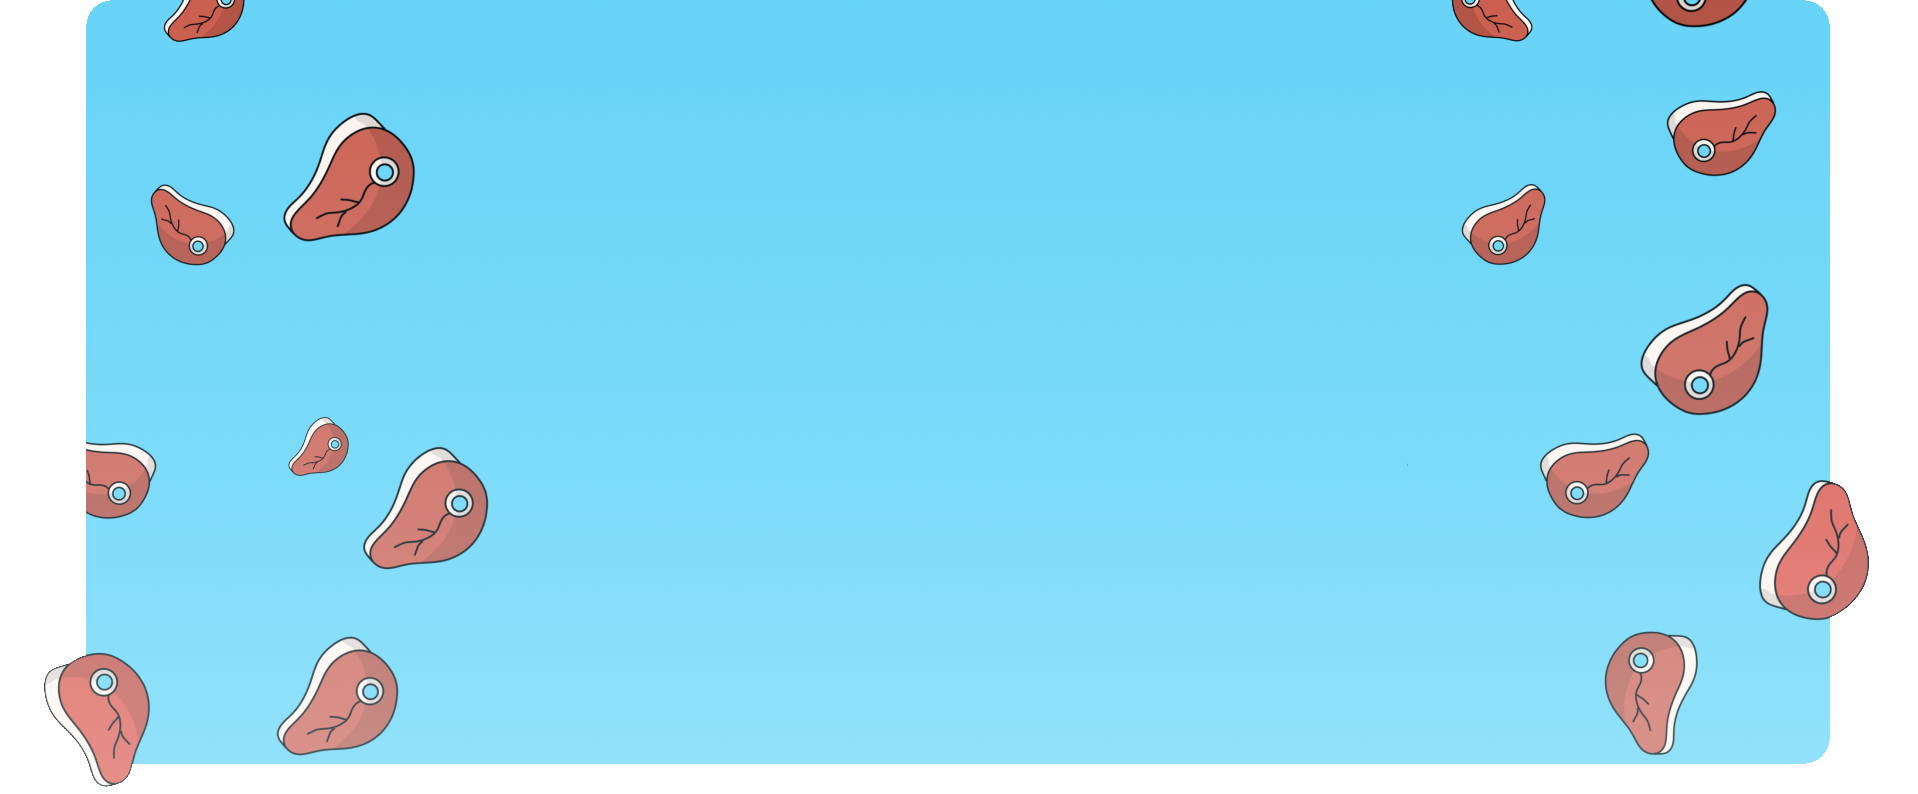
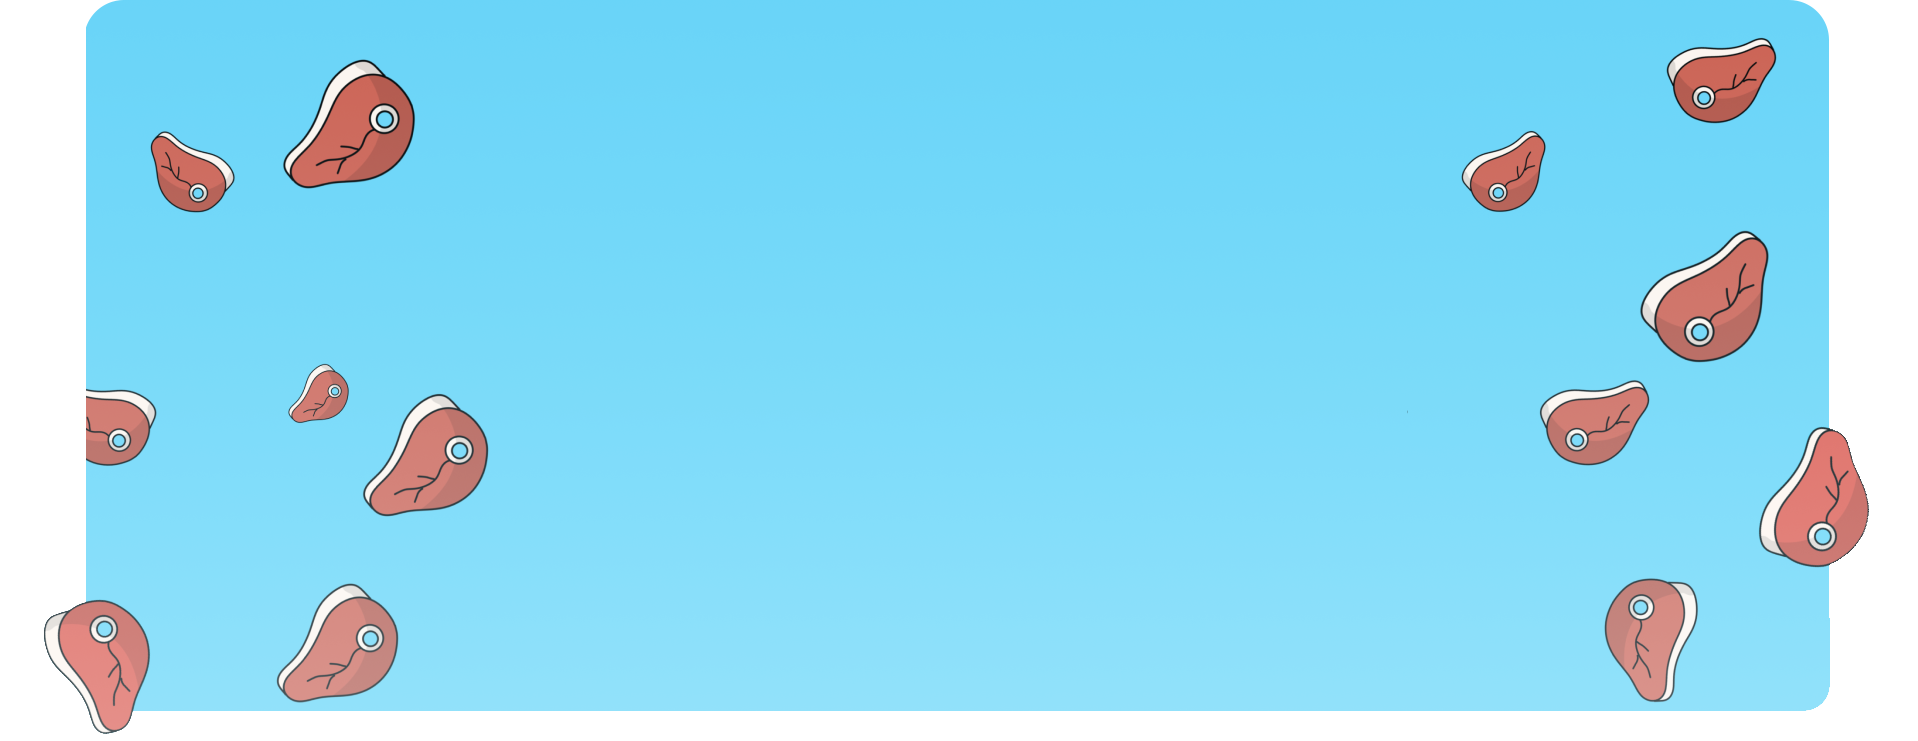
New bg

diff --git a/styles/globals.css b/styles/globals.css
@@ -15,13 +15,13 @@
 
 @media (min-width: 1500px) {
     .page-height {
-        min-height: 946px;
+        min-height: 850px;
     }
 }
 
 @media (min-width: 1800px) {
     .page-height {
-        min-height: 1050px;
+        min-height: 940px;
     }
 }
 
